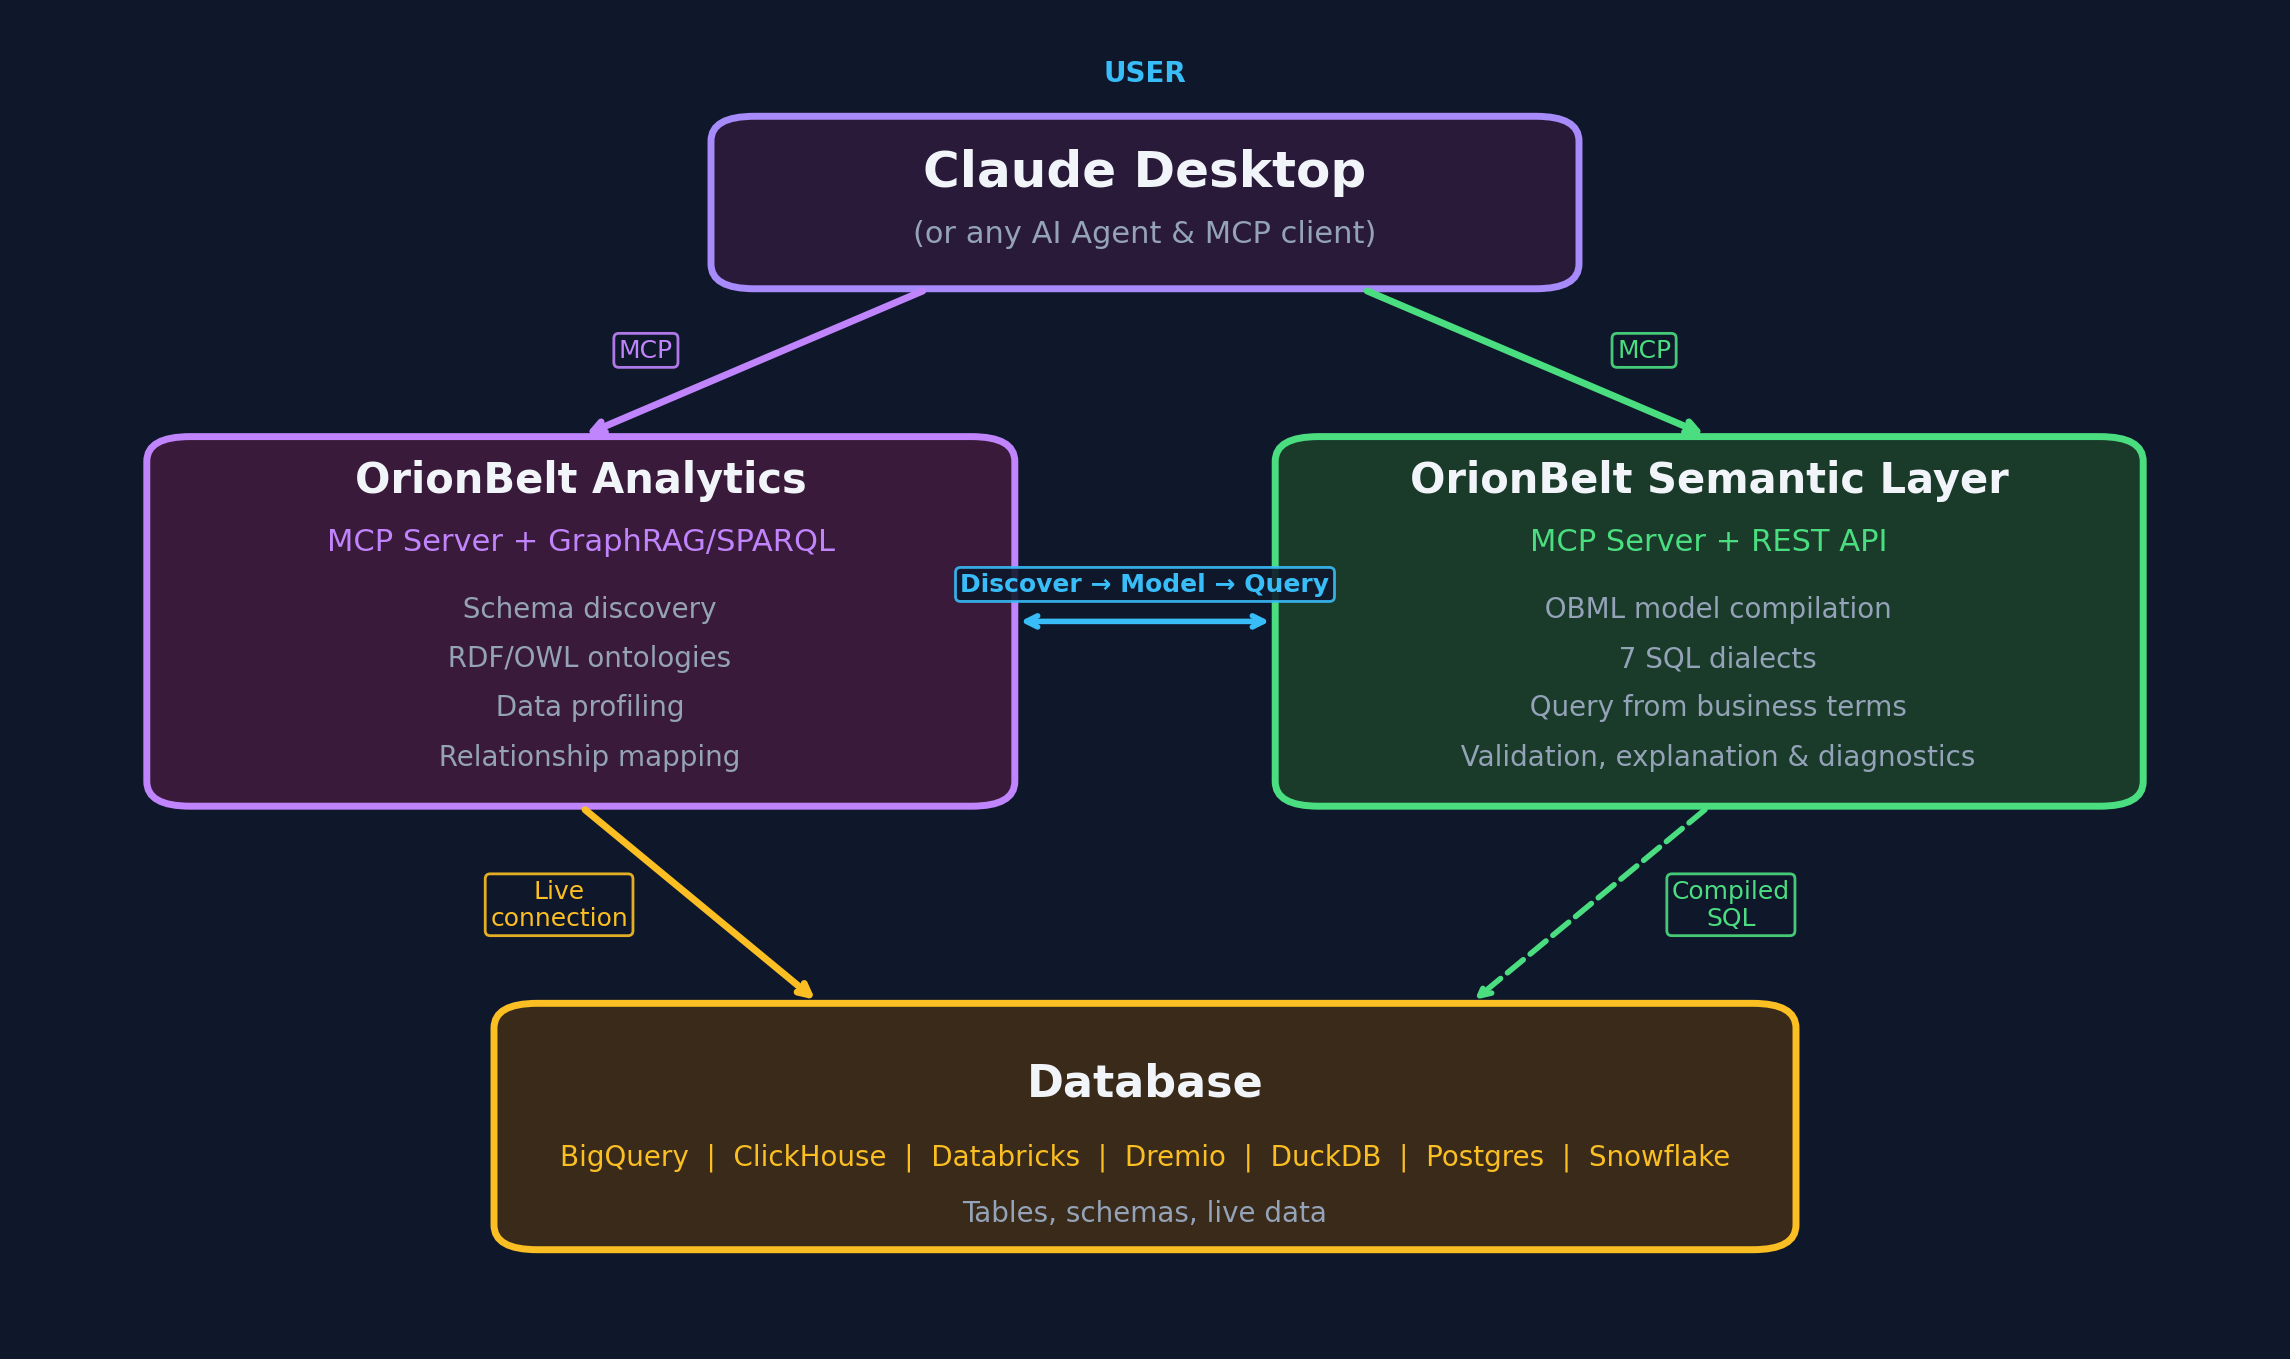
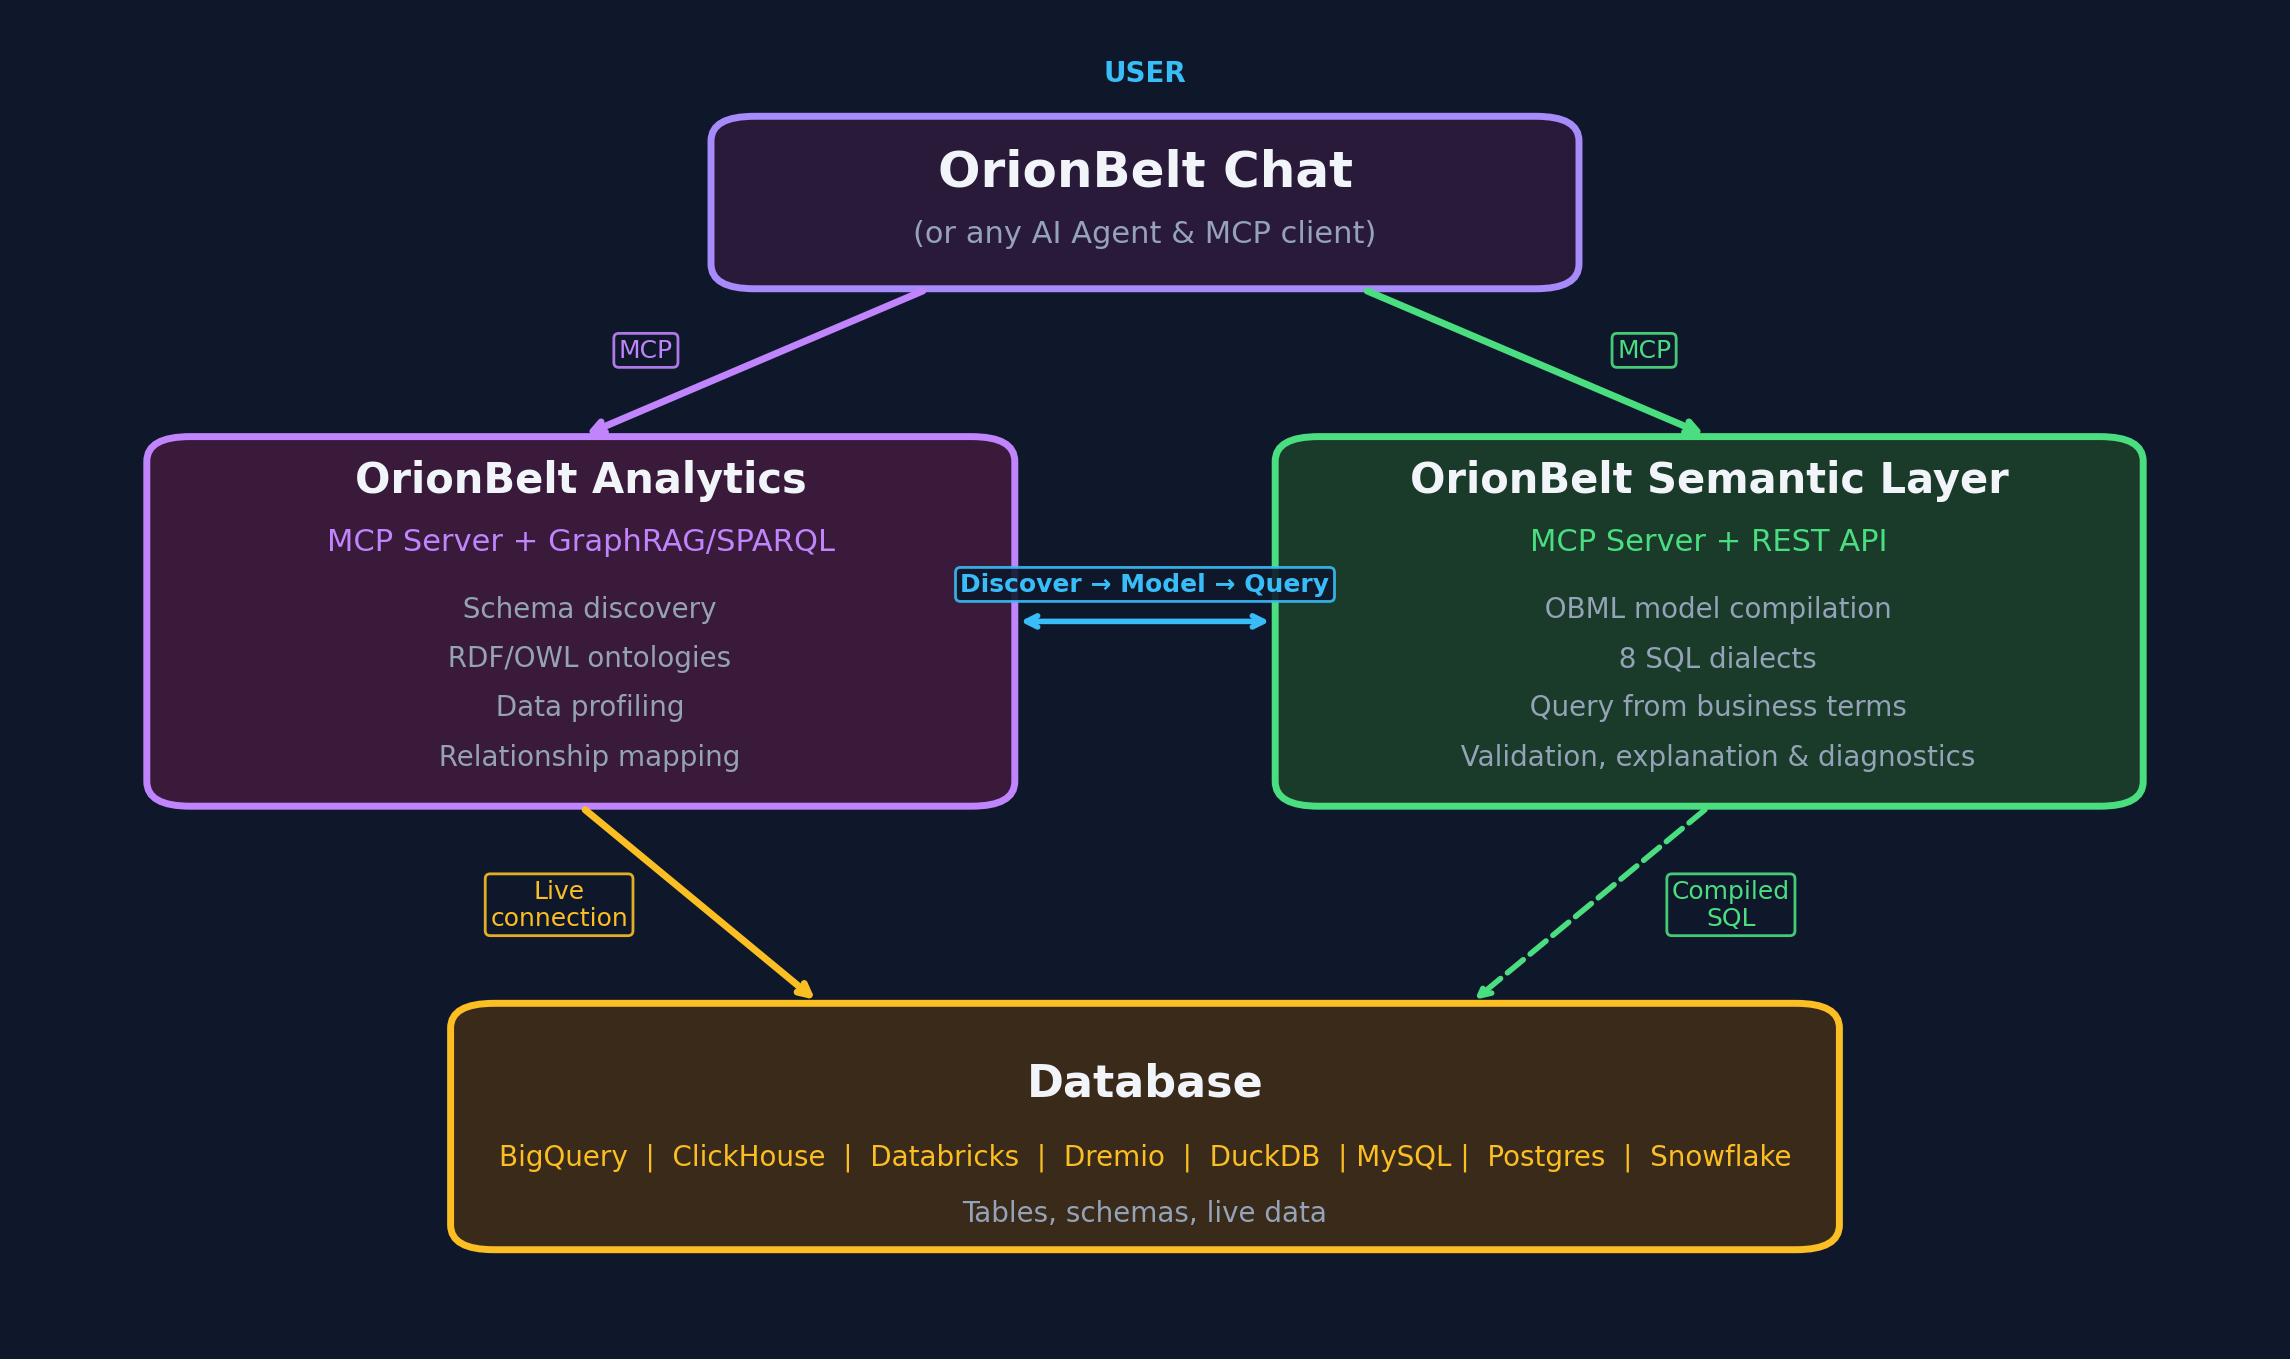
fix: resolve ontology review findings — inverse metadata and SHACL cross-validation
- Add reciprocal owl:inverseOf on inverse properties (declared and inferred)
  so both directions are explicitly traversable via SPARQL
- Add SPARQL-based SHACL constraints to ForwardRelationshipShape:
  oba:referencedTable must match oba:tableName of the rdfs:range class,
  oba:foreignKeyColumn must be a known column of the rdfs:domain class
- Update spec section 10 to document the new cross-validation constraints

Resolves design/ontology-review.md findings 1 (high) and 2 (medium).
Finding 3 was already resolved in the spec.

Changed region(s): [[0.186, 0.7108, 0.8061, 0.9272], [0.4031, 0.0927, 0.5891, 0.1545]]

diff --git a/src/ontology_generator.py b/src/ontology_generator.py
@@ -389,8 +389,9 @@ class OntologyGenerator:
         # Add database annotations for inverse relationship
         self.graph.add((inverse_prop_uri, self.oba_ns.relationshipType, Literal("one_to_many")))
 
-        # Link them as inverses
+        # Link them as inverses (both directions for explicit traversal)
         self.graph.add((prop_uri, OWL.inverseOf, inverse_prop_uri))
+        self.graph.add((inverse_prop_uri, OWL.inverseOf, prop_uri))
 
         logger.debug(f"Added declared FK relationship: {table_name}.{fk_column} -> {referenced_table}.{referenced_column}")
 
@@ -779,8 +780,9 @@ class OntologyGenerator:
             self.graph.add((inverse_prop_uri, self.oba_ns.relationshipType, Literal("one_to_many")))
             self.graph.add((inverse_prop_uri, self.oba_ns.isInferredRelationship, Literal(True)))
 
-            # Link as inverses
+            # Link as inverses (both directions for explicit traversal)
             self.graph.add((prop_uri, OWL.inverseOf, inverse_prop_uri))
+            self.graph.add((inverse_prop_uri, OWL.inverseOf, prop_uri))
 
     def _add_denormalized_field_annotation(self, denorm: DenormalizedField) -> None:
         """Add annotation to a denormalized field in the ontology.

diff --git a/ontology/spec.md b/ontology/spec.md
@@ -265,6 +265,9 @@ SHACL shapes are provided in `oba-shacl.ttl` to enforce:
 - controlled value sets for `oba:relationshipType`, `oba:inferenceConfidence`, `oba:tableType`
 - cardinality constraints (minCount, maxCount)
 - structural requirements (`rdfs:domain`, `rdfs:range` presence on columns and relationships)
+- cross-validation of FK annotations against graph structure via SPARQL-based constraints:
+  - `oba:referencedTable` must match `oba:tableName` of the `rdfs:range` class
+  - `oba:foreignKeyColumn` must be a known column of the `rdfs:domain` class
 
 ## 11. Versioning
 